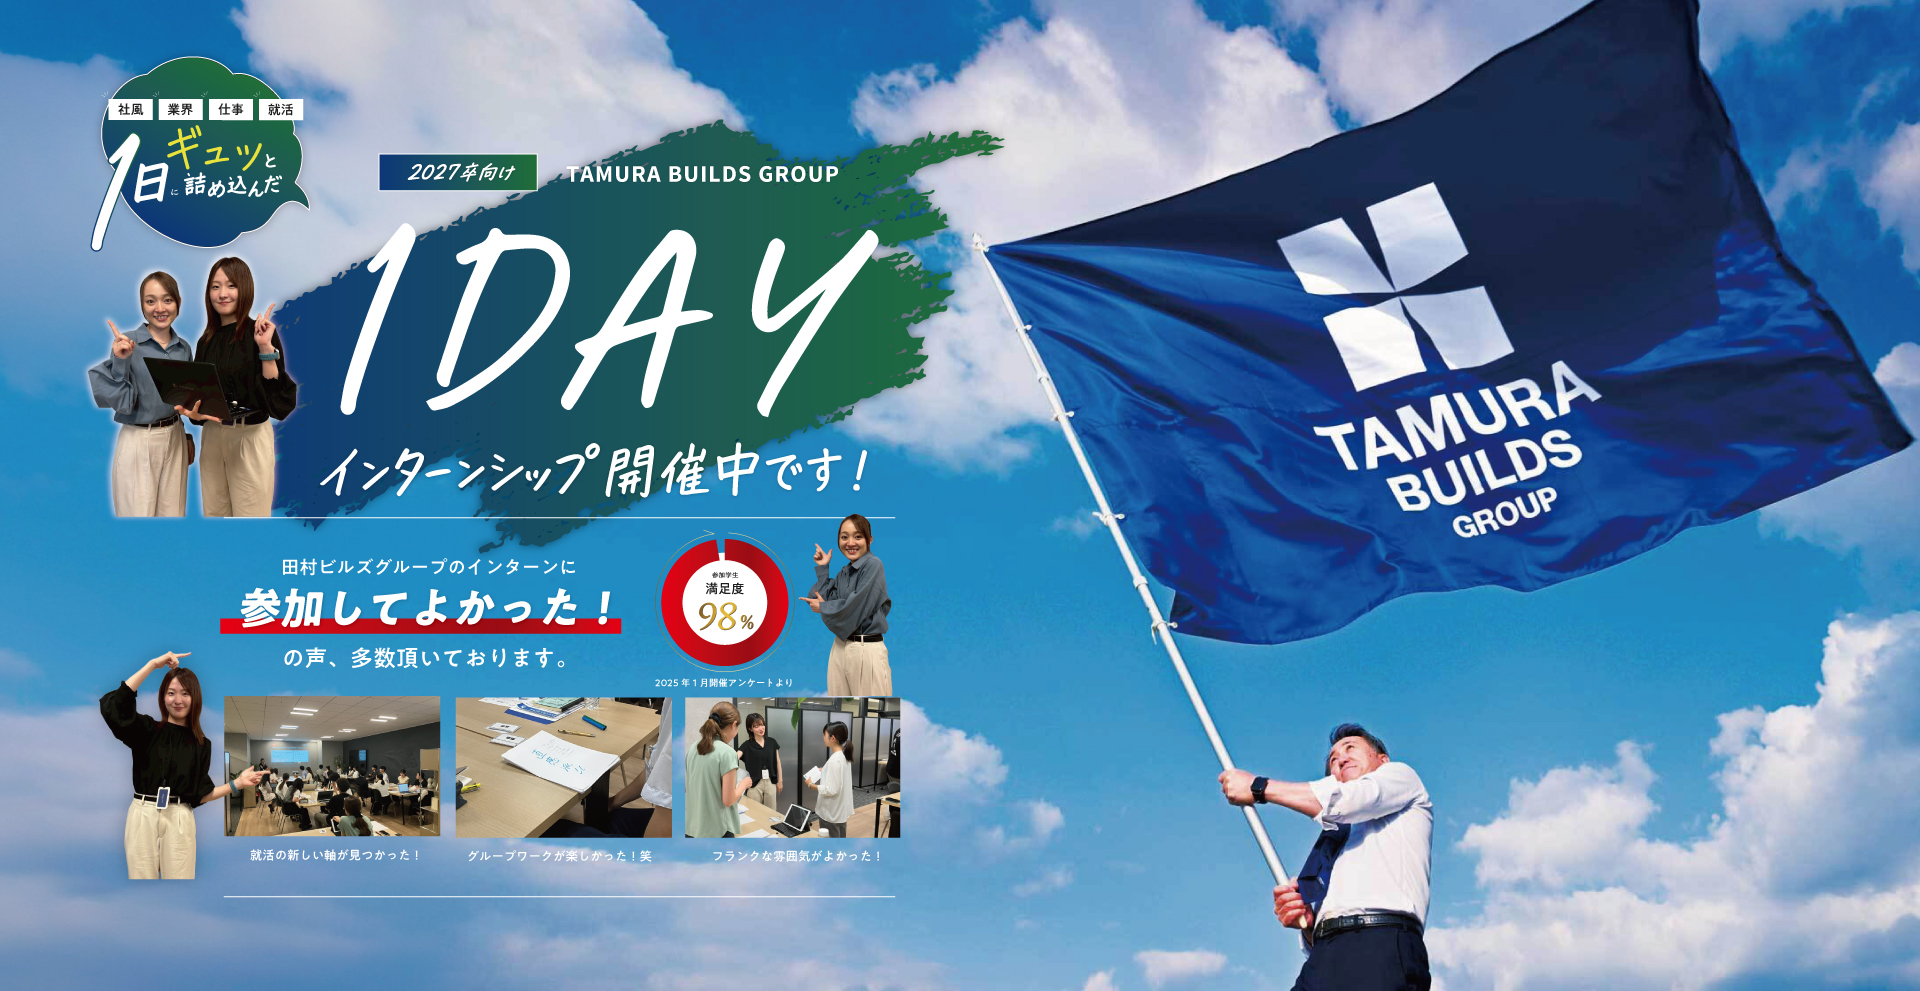
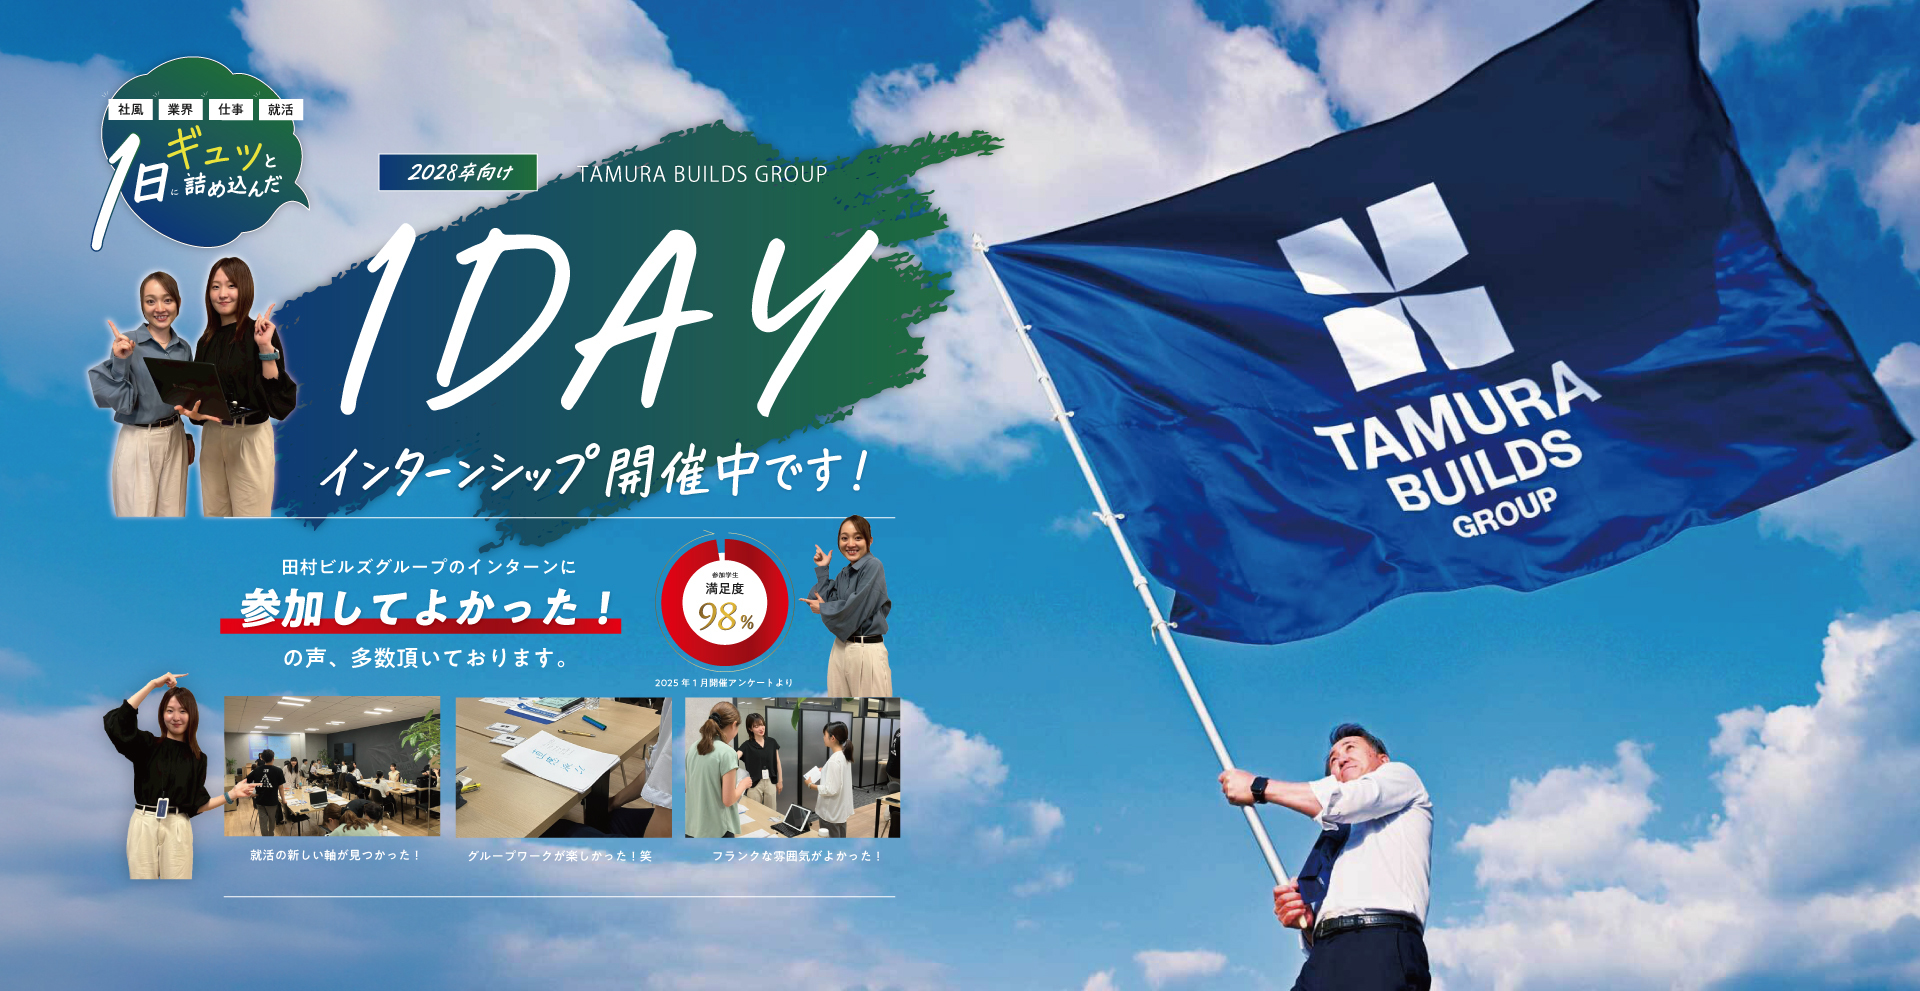
feat: 採用LP 28卒向けに更新
エントリーリンクを28卒用URLに差し替え（CPC・オーガニック各6箇所）、
オーガニックLPのtitleタグを2028卒に更新、FV画像（PC/SP）を差し替え。

diff --git a/wp-content/themes/tamura-recruit/page-lp-organic.php b/wp-content/themes/tamura-recruit/page-lp-organic.php
@@ -6,7 +6,7 @@
     <meta name="viewport" content="width=device-width, initial-scale=1.0">
     <link rel="stylesheet" href="<?php echo get_template_directory_uri(); ?>/assets/public/css/reset.css">
 
-    <title>田村ビルズの2027卒向けインターンシップ開催中です！不動産のインターンシップ参加したい方必見！山口・福岡の方♪</title>
+    <title>田村ビルズの2028卒向けインターンシップ開催中です！不動産のインターンシップ参加したい方必見！山口・福岡の方♪</title>
     <description></description>
     <style>
         @media screen and (max-width: 767px) {
@@ -108,26 +108,26 @@
         <img src="<?php echo get_template_directory_uri(); ?>/assets/public/img/lp/2.jpg" style="" alt="">
         <img src="<?php echo get_template_directory_uri(); ?>/assets/public/img/lp/3.jpg" style="" alt="">
         <img src="<?php echo get_template_directory_uri(); ?>/assets/public/img/lp/4.jpg" style="" alt="">
-        <a class="organic-pc001" href="https://www.career-cloud.asia/27/form/entryb/index/847522c37738689030546bd9c88cba72" target="_blank"><img src="<?php echo get_template_directory_uri(); ?>/assets/public/img/lp/5.jpg" style="" alt=""></a>
+        <a class="organic-pc001" href="https://www.career-cloud.asia/28/form/entryb/index/94723c6a55a70a137737c0c29eabdd1a" target="_blank"><img src="<?php echo get_template_directory_uri(); ?>/assets/public/img/lp/5.jpg" style="" alt=""></a>
     </div>
     <div style="margin:auto;" class="sp-only">
         <img src="<?php echo get_template_directory_uri(); ?>/assets/public/img/lp/1_sp.jpg" style="" alt="">
         <img src="<?php echo get_template_directory_uri(); ?>/assets/public/img/lp/2_sp.jpg" style="" alt="">
         <img src="<?php echo get_template_directory_uri(); ?>/assets/public/img/lp/3_sp.jpg" style="" alt="">
         <img src="<?php echo get_template_directory_uri(); ?>/assets/public/img/lp/4_sp.jpg" style="" alt="">
-        <a class="organic-sp001" href="https://www.career-cloud.asia/27/form/entryb/index/847522c37738689030546bd9c88cba72" target="_blank"><img src="<?php echo get_template_directory_uri(); ?>/assets/public/img/lp/6_sp.jpg" style="" alt=""></a>
+        <a class="organic-sp001" href="https://www.career-cloud.asia/28/form/entryb/index/94723c6a55a70a137737c0c29eabdd1a" target="_blank"><img src="<?php echo get_template_directory_uri(); ?>/assets/public/img/lp/6_sp.jpg" style="" alt=""></a>
         <img src="<?php echo get_template_directory_uri(); ?>/assets/public/img/lp/5_sp.jpg" style="" alt="">
-        <a class="organic-sp002" href="https://www.career-cloud.asia/27/form/entryb/index/847522c37738689030546bd9c88cba72" target="_blank"><img src="<?php echo get_template_directory_uri(); ?>/assets/public/img/lp/6_sp.jpg" style="" alt=""></a>
+        <a class="organic-sp002" href="https://www.career-cloud.asia/28/form/entryb/index/94723c6a55a70a137737c0c29eabdd1a" target="_blank"><img src="<?php echo get_template_directory_uri(); ?>/assets/public/img/lp/6_sp.jpg" style="" alt=""></a>
         <img src="<?php echo get_template_directory_uri(); ?>/assets/public/img/lp/7_sp.jpg" style="" alt="">
-        <a class="organic-sp003" href="https://www.career-cloud.asia/27/form/entryb/index/847522c37738689030546bd9c88cba72" target="_blank"><img src="<?php echo get_template_directory_uri(); ?>/assets/public/img/lp/6-2_sp.jpg" style="" alt=""></a>
+        <a class="organic-sp003" href="https://www.career-cloud.asia/28/form/entryb/index/94723c6a55a70a137737c0c29eabdd1a" target="_blank"><img src="<?php echo get_template_directory_uri(); ?>/assets/public/img/lp/6-2_sp.jpg" style="" alt=""></a>
         <img src="<?php echo get_template_directory_uri(); ?>/assets/public/img/lp/8_sp.jpg" style="" alt="">
         <img src="<?php echo get_template_directory_uri(); ?>/assets/public/img/lp/9_sp.jpg" style="" alt="">
         <img src="<?php echo get_template_directory_uri(); ?>/assets/public/img/lp/10_sp.jpg" style="" alt="">
         <img src="<?php echo get_template_directory_uri(); ?>/assets/public/img/lp/11_sp.jpg" alt="">
-        <a class="organic-sp004" href="https://www.career-cloud.asia/27/form/entryb/index/847522c37738689030546bd9c88cba72" target="_blank"><img src="<?php echo get_template_directory_uri(); ?>/assets/public/img/lp/12_sp.jpg" style="    padding-bottom: 60px;    background: #1b6741;" alt=""></a>
+        <a class="organic-sp004" href="https://www.career-cloud.asia/28/form/entryb/index/94723c6a55a70a137737c0c29eabdd1a" target="_blank"><img src="<?php echo get_template_directory_uri(); ?>/assets/public/img/lp/12_sp.jpg" style="    padding-bottom: 60px;    background: #1b6741;" alt=""></a>
     </div>
     <div class="btn-fixed">
-        <a class="organic-fixed001" href="https://www.career-cloud.asia/27/form/entryb/index/847522c37738689030546bd9c88cba72" target="_blank">
+        <a class="organic-fixed001" href="https://www.career-cloud.asia/28/form/entryb/index/94723c6a55a70a137737c0c29eabdd1a" target="_blank">
             <img src="<?php echo get_template_directory_uri(); ?>/assets/public/img/lp/アセット 10.png"
                 style="" alt="">
         </a>

diff --git a/wp-content/themes/tamura-recruit/page-lp-cpc.php b/wp-content/themes/tamura-recruit/page-lp-cpc.php
@@ -108,26 +108,26 @@
         <img src="<?php echo get_template_directory_uri(); ?>/assets/public/img/lp/2.jpg" style="" alt="">
         <img src="<?php echo get_template_directory_uri(); ?>/assets/public/img/lp/3.jpg" style="" alt="">
         <img src="<?php echo get_template_directory_uri(); ?>/assets/public/img/lp/4.jpg" style="" alt="">
-        <a class="cpc-pc001" href="https://www.career-cloud.asia/27/form/entryb/index/bdc60d3d78301cf451b5921dc952b837" target="_blank"><img src="<?php echo get_template_directory_uri(); ?>/assets/public/img/lp/5.jpg" style="" alt=""></a>
+        <a class="cpc-pc001" href="https://www.career-cloud.asia/28/form/entryb/index/9ec96d46eab43828d90263f36f23d0ef" target="_blank"><img src="<?php echo get_template_directory_uri(); ?>/assets/public/img/lp/5.jpg" style="" alt=""></a>
     </div>
     <div style="margin:auto;" class="sp-only">
         <img src="<?php echo get_template_directory_uri(); ?>/assets/public/img/lp/1_sp.jpg" style="" alt="">
         <img src="<?php echo get_template_directory_uri(); ?>/assets/public/img/lp/2_sp.jpg" style="" alt="">
         <img src="<?php echo get_template_directory_uri(); ?>/assets/public/img/lp/3_sp.jpg" style="" alt="">
         <img src="<?php echo get_template_directory_uri(); ?>/assets/public/img/lp/4_sp.jpg" style="" alt="">
-        <a class="cpc-sp001" href="https://www.career-cloud.asia/27/form/entryb/index/bdc60d3d78301cf451b5921dc952b837" target="_blank"><img src="<?php echo get_template_directory_uri(); ?>/assets/public/img/lp/6_sp.jpg" style="" alt=""></a>
+        <a class="cpc-sp001" href="https://www.career-cloud.asia/28/form/entryb/index/9ec96d46eab43828d90263f36f23d0ef" target="_blank"><img src="<?php echo get_template_directory_uri(); ?>/assets/public/img/lp/6_sp.jpg" style="" alt=""></a>
         <img src="<?php echo get_template_directory_uri(); ?>/assets/public/img/lp/5_sp.jpg" style="" alt="">
-        <a class="cpc-sp002" href="https://www.career-cloud.asia/27/form/entryb/index/bdc60d3d78301cf451b5921dc952b837" target="_blank"><img src="<?php echo get_template_directory_uri(); ?>/assets/public/img/lp/6_sp.jpg" style="" alt=""></a>
+        <a class="cpc-sp002" href="https://www.career-cloud.asia/28/form/entryb/index/9ec96d46eab43828d90263f36f23d0ef" target="_blank"><img src="<?php echo get_template_directory_uri(); ?>/assets/public/img/lp/6_sp.jpg" style="" alt=""></a>
         <img src="<?php echo get_template_directory_uri(); ?>/assets/public/img/lp/7_sp.jpg" style="" alt="">
-        <a class="cpc-sp003" href="https://www.career-cloud.asia/27/form/entryb/index/bdc60d3d78301cf451b5921dc952b837" target="_blank"><img src="<?php echo get_template_directory_uri(); ?>/assets/public/img/lp/6-2_sp.jpg" style="" alt=""></a>
+        <a class="cpc-sp003" href="https://www.career-cloud.asia/28/form/entryb/index/9ec96d46eab43828d90263f36f23d0ef" target="_blank"><img src="<?php echo get_template_directory_uri(); ?>/assets/public/img/lp/6-2_sp.jpg" style="" alt=""></a>
         <img src="<?php echo get_template_directory_uri(); ?>/assets/public/img/lp/8_sp.jpg" style="" alt="">
         <img src="<?php echo get_template_directory_uri(); ?>/assets/public/img/lp/9_sp.jpg" style="" alt="">
         <img src="<?php echo get_template_directory_uri(); ?>/assets/public/img/lp/10_sp.jpg" style="" alt="">
         <img src="<?php echo get_template_directory_uri(); ?>/assets/public/img/lp/11_sp.jpg" alt="">
-        <a class="cpc-sp004" href="https://www.career-cloud.asia/27/form/entryb/index/bdc60d3d78301cf451b5921dc952b837" target="_blank"><img src="<?php echo get_template_directory_uri(); ?>/assets/public/img/lp/12_sp.jpg" style="    padding-bottom: 60px;    background: #1b6741;" alt=""></a>
+        <a class="cpc-sp004" href="https://www.career-cloud.asia/28/form/entryb/index/9ec96d46eab43828d90263f36f23d0ef" target="_blank"><img src="<?php echo get_template_directory_uri(); ?>/assets/public/img/lp/12_sp.jpg" style="    padding-bottom: 60px;    background: #1b6741;" alt=""></a>
     </div>
     <div class="btn-fixed">
-        <a class="cpc-fixed001" href="https://www.career-cloud.asia/27/form/entryb/index/bdc60d3d78301cf451b5921dc952b837" target="_blank">
+        <a class="cpc-fixed001" href="https://www.career-cloud.asia/28/form/entryb/index/9ec96d46eab43828d90263f36f23d0ef" target="_blank">
             <img src="<?php echo get_template_directory_uri(); ?>/assets/public/img/lp/アセット 10.png"
                 style="" alt="">
         </a>
